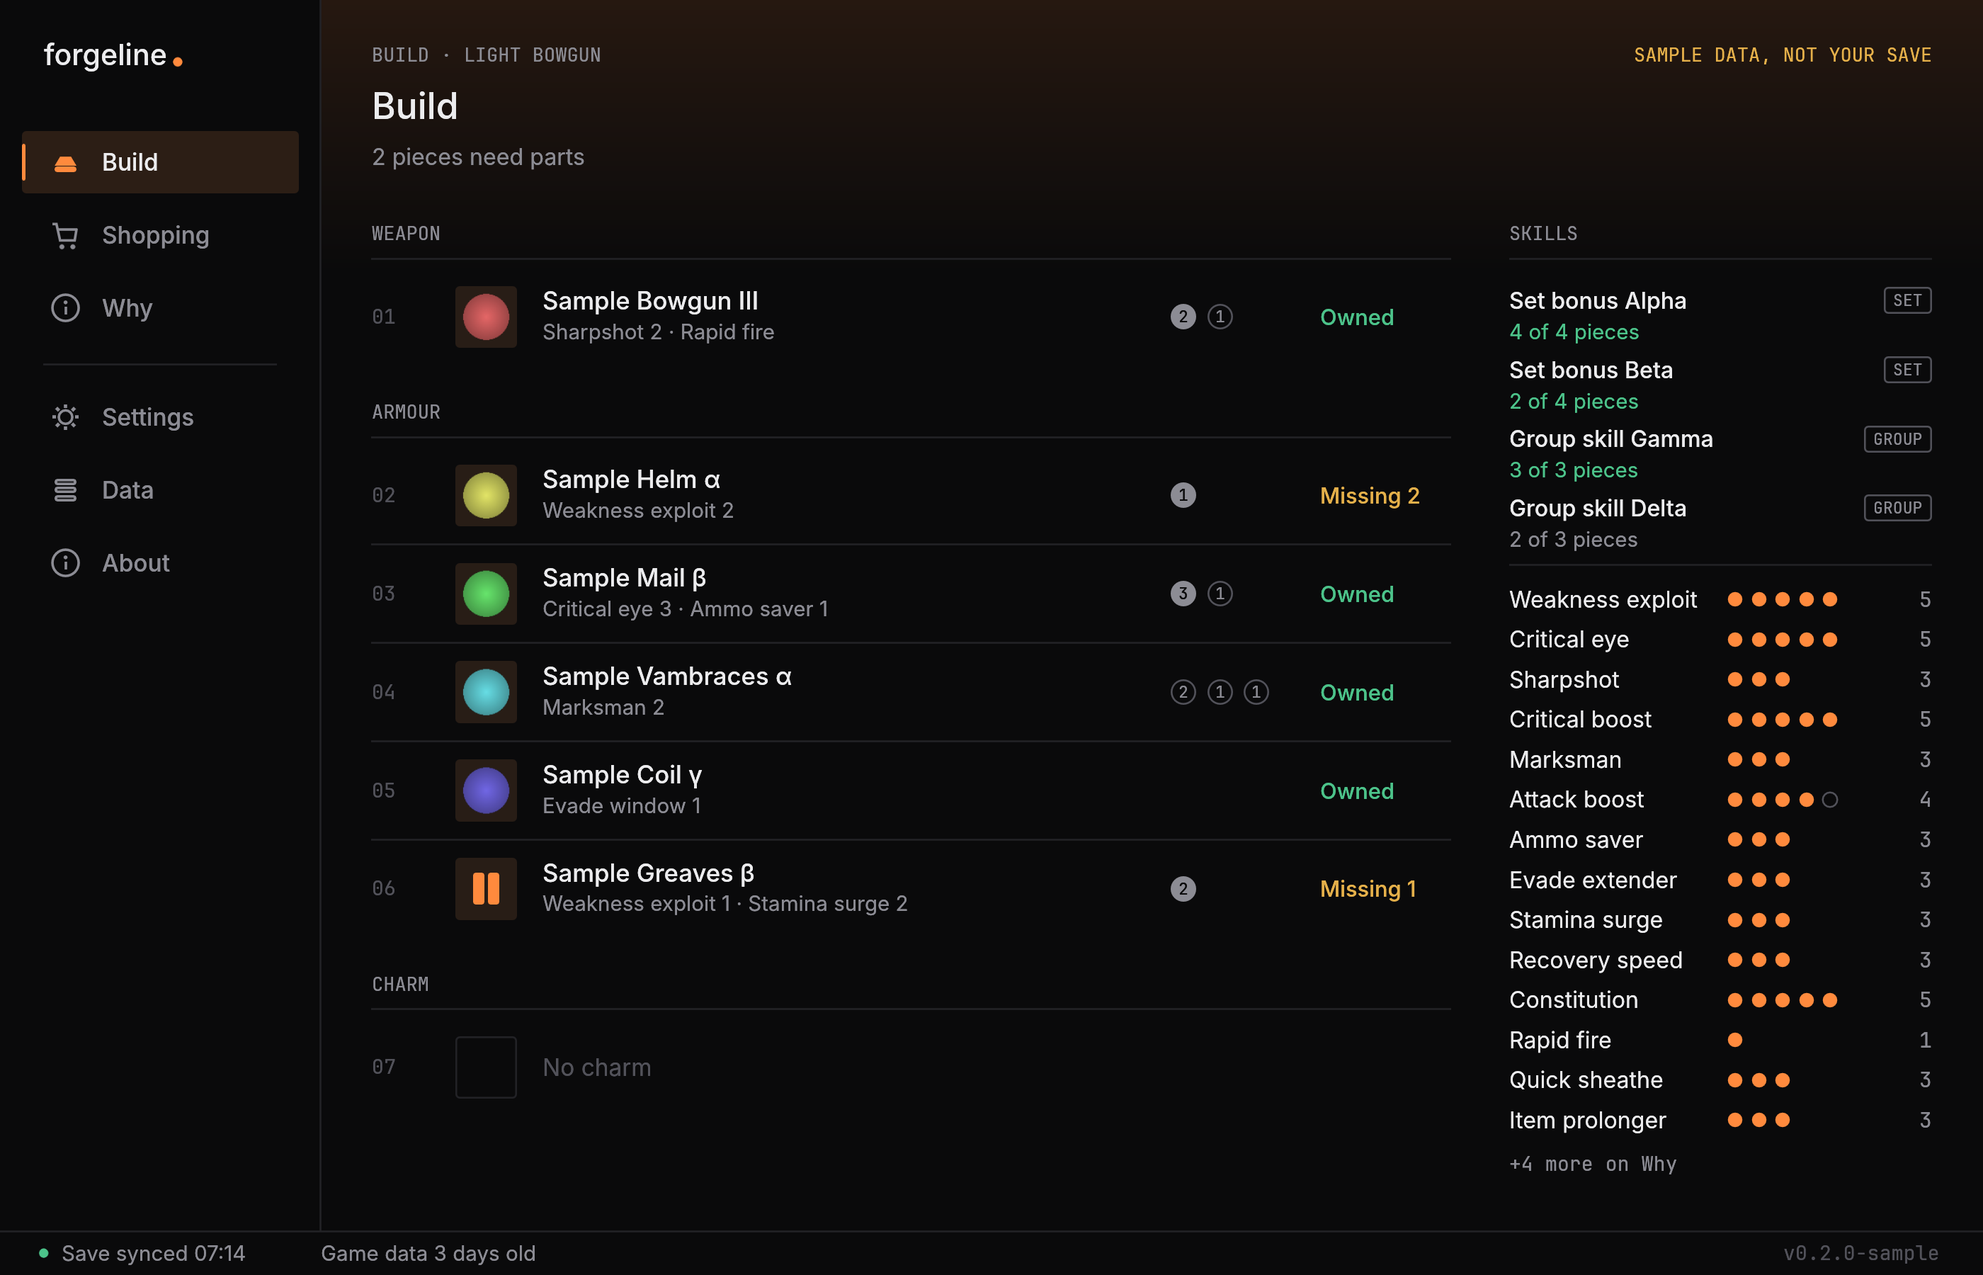
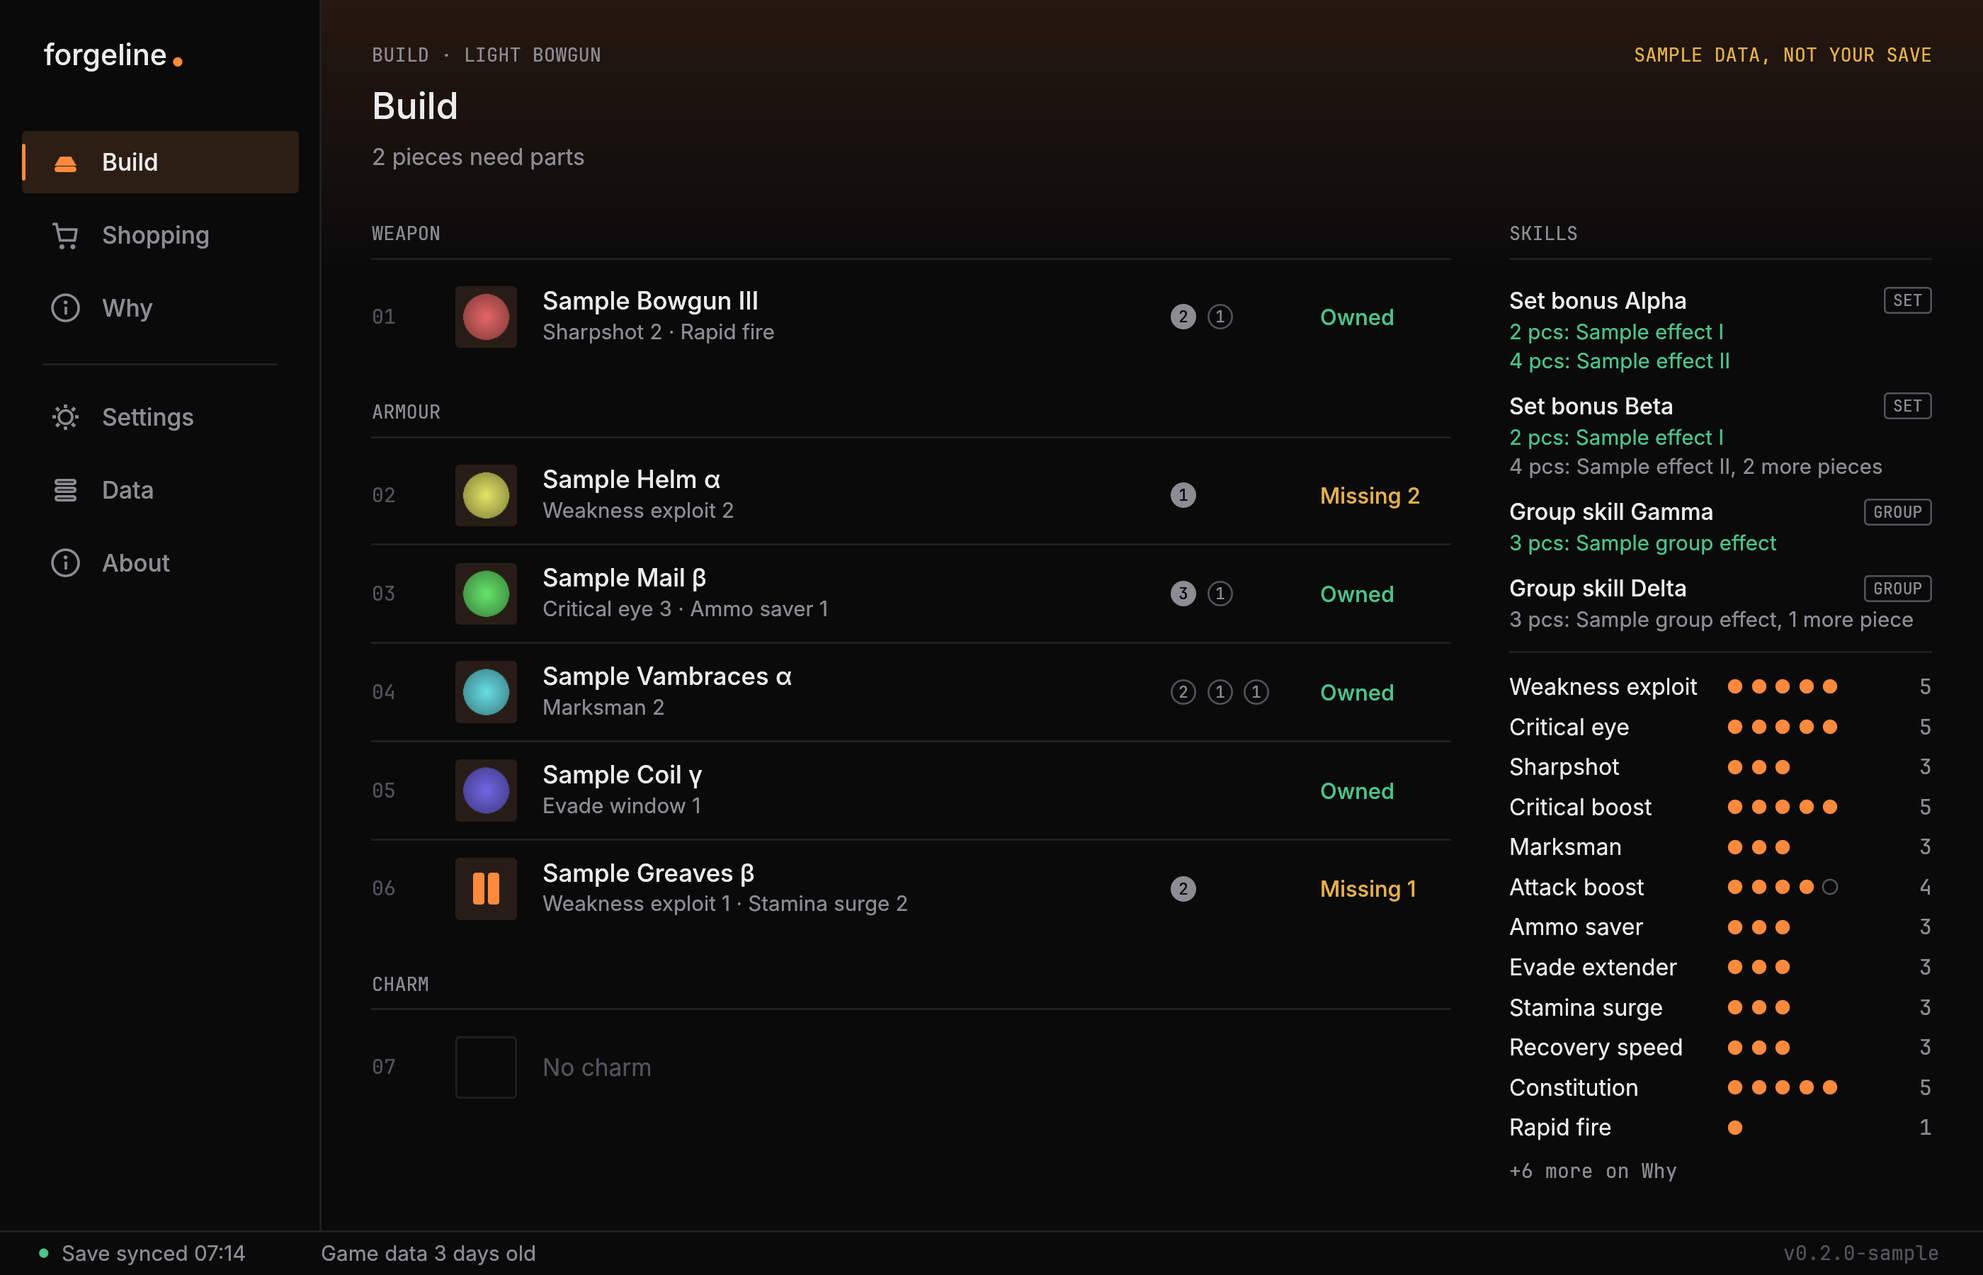
Skills strip: show set and group skill tiers in words
Claude-Session: https://claude.ai/code/session_016DGbpW1wZFqRNDXo5mDZw1

Changed region(s): [[0.7457, 0.2489, 0.9632, 0.9333]]

diff --git a/tools/ui-sample/src/build_card.rs b/tools/ui-sample/src/build_card.rs
@@ -35,6 +35,8 @@ const DOT_PITCH: f32 = 13.0;
 const SKILL_ROW: f32 = 38.0;
 /// Compact rows (used when the list is long): one line, dots in a fixed column at this offset.
 const COMPACT_ROW: f32 = 22.0;
+/// One tier line under a set or group skill's name.
+const TIER_ROW: f32 = 16.0;
 const COMPACT_DOTS_X: f32 = 120.0;
 /// Width of the side strip, and the gap between it and the equipment rows.
 const SKILLS_W: f32 = 232.0;
@@ -44,7 +46,6 @@ const EQUIP_MIN_W: f32 = 480.0;
 /// Each strip column is at least this wide (name, dots and level number).
 const SKILL_COL_MIN_W: f32 = 200.0;
 const ACCENT: Color32 = Color32::from_rgb(255, 138, 61);
-const ACCENT_INK: Color32 = Color32::from_rgb(26, 12, 2);
 const BG: Color32 = Color32::from_rgb(10, 10, 11);
 
 const FG: Color32 = Color32::from_rgb(236, 236, 238);
@@ -84,25 +85,26 @@ pub enum SkillKind {
     Group,
 }
 
-/// How set and group skills show their progress (two variants for the maintainer to compare).
+/// One tier of a set or group skill: the effect that starts at `pieces` worn.
 #[derive(Clone, Copy, PartialEq, Eq, Debug)]
-pub enum SetStyle {
-    /// A numbered circle per threshold (`2` and `4` pieces), filled once reached.
-    Pips,
-    /// Plain words: `3 of 4 pieces`.
-    Text,
+pub struct Tier {
+    pub pieces: u8,
+    /// Short, for the strip.
+    pub effect: &'static str,
+    /// The full effect text, for the tooltip and the Why screen.
+    pub full: &'static str,
 }
 
 /// One skill in the build. For a normal skill `level` is its total level and `max` the most it
-/// can reach. For a set or group skill `level` is the pieces worn, `max` the highest threshold and
-/// `steps` the piece counts where a bonus starts.
+/// can reach. For a set or group skill `level` is the pieces worn, `max` the highest tier and
+/// `tiers` the effects, lowest piece count first.
 #[derive(Clone, Copy, PartialEq, Eq, Debug)]
 pub struct Skill {
     pub name: &'static str,
     pub level: u8,
     pub max: u8,
     pub kind: SkillKind,
-    pub steps: &'static [u8],
+    pub tiers: &'static [Tier],
     /// A must-have the user set. Never cut from the strip.
     pub must: bool,
     /// The optimizer's weight for this skill, when there is one (Phase 4). Without it the strip
@@ -117,20 +119,20 @@ impl Skill {
             level,
             max,
             kind: SkillKind::Normal,
-            steps: &[],
+            tiers: &[],
             must: false,
             weight: None,
         }
     }
 
-    /// A set or group skill: `pieces` worn, bonuses at each of `steps`.
-    pub fn bonus(kind: SkillKind, name: &'static str, pieces: u8, steps: &'static [u8]) -> Self {
+    /// A set or group skill: `pieces` worn, an effect at each of `tiers`.
+    pub fn bonus(kind: SkillKind, name: &'static str, pieces: u8, tiers: &'static [Tier]) -> Self {
         Skill {
             name,
             level: pieces,
-            max: steps.last().copied().unwrap_or(0),
+            max: tiers.last().map_or(0, |t| t.pieces),
             kind,
-            steps,
+            tiers,
             must: false,
             weight: None,
         }
@@ -234,8 +236,8 @@ impl BuildData {
             ],
             charm: None,
             skills: vec![
-                Skill::bonus(SkillKind::Set, "Set bonus Alpha", 3, &[2, 4]),
-                Skill::bonus(SkillKind::Group, "Group skill Gamma", 3, &[3]),
+                Skill::bonus(SkillKind::Set, "Set bonus Alpha", 3, TWO_FOUR),
+                Skill::bonus(SkillKind::Group, "Group skill Gamma", 3, THREE),
                 Skill {
                     must: true,
                     ..Skill::normal("Weakness exploit", 4, 5)
@@ -250,14 +252,34 @@ impl BuildData {
     }
 }
 
+/// Invented tier text. Whether the game files hold set and group skill tier effects is unverified,
+/// so the strip is shown with sample text.
+const TWO_FOUR: &[Tier] = &[
+    Tier {
+        pieces: 2,
+        effect: "Sample effect I",
+        full: "Sample text: the 2-piece effect of this set, in full.",
+    },
+    Tier {
+        pieces: 4,
+        effect: "Sample effect II",
+        full: "Sample text: the 4-piece effect of this set, in full.",
+    },
+];
+const THREE: &[Tier] = &[Tier {
+    pieces: 3,
+    effect: "Sample group effect",
+    full: "Sample text: the 3-piece effect of this group skill, in full.",
+}];
+
 /// A realistic full endgame build's skills (invented names): 22 skills, with set and group
 /// skills first and the rest most important first, each with a sample weight.
 pub fn sample_endgame_skills() -> Vec<Skill> {
     let mut v = vec![
-        Skill::bonus(SkillKind::Set, "Set bonus Alpha", 4, &[2, 4]),
-        Skill::bonus(SkillKind::Set, "Set bonus Beta", 2, &[2, 4]),
-        Skill::bonus(SkillKind::Group, "Group skill Gamma", 3, &[3]),
-        Skill::bonus(SkillKind::Group, "Group skill Delta", 2, &[3]),
+        Skill::bonus(SkillKind::Set, "Set bonus Alpha", 4, TWO_FOUR),
+        Skill::bonus(SkillKind::Set, "Set bonus Beta", 2, TWO_FOUR),
+        Skill::bonus(SkillKind::Group, "Group skill Gamma", 3, THREE),
+        Skill::bonus(SkillKind::Group, "Group skill Delta", 2, THREE),
     ];
     let normal = [
         ("Weakness exploit", 5, 5, true),
@@ -305,8 +327,6 @@ pub struct BuildCard {
     pub cache: IconCache,
     /// Slot circles drawn last frame, for the hover tooltip.
     hits: Vec<(Rect, Hit)>,
-    /// Which of the two set and group skill looks to draw.
-    pub set_style: SetStyle,
 }
 
 impl BuildCard {
@@ -316,7 +336,6 @@ impl BuildCard {
             data: BuildData::sample(),
             cache: IconCache::new(ctx, source),
             hits: Vec::new(),
-            set_style: SetStyle::Text,
         }
     }
 }
@@ -327,12 +346,11 @@ pub fn show(ui: &mut Ui, app: &mut BuildCard) {
     let data = &app.data;
     let cache = &mut app.cache;
     let hits = &mut app.hits;
-    let set_style = app.set_style;
     hits.clear();
     shell::show_with(ui, &mut app.shell, &mut |p, content, shell| {
         shell::show_content(p, content, shell);
         if shell.section == shell::Section::Build {
-            card(p, content, data, cache, hits, &shell.status, set_style);
+            card(p, content, data, cache, hits, &shell.status);
         } else {
             placeholder(p, content);
         }
@@ -367,13 +385,11 @@ fn skill_tip(k: &Skill) -> String {
     match k.kind {
         SkillKind::Normal => format!("{}, level {} of {}", k.name, k.level, k.max),
         SkillKind::Set | SkillKind::Group => {
-            let steps: Vec<String> = k.steps.iter().map(u8::to_string).collect();
-            format!(
-                "{}, {} pieces worn, bonus at {} pieces",
-                k.name,
-                k.level,
-                steps.join(" and ")
-            )
+            let mut tip = format!("{}, {} pieces worn", k.name, k.level);
+            for t in k.tiers {
+                tip += &format!("\n{} pieces: {}", t.pieces, t.full);
+            }
+            tip
         }
     }
 }
@@ -399,7 +415,6 @@ fn card(
     cache: &mut IconCache,
     hits: &mut Vec<(Rect, Hit)>,
     status: &Status,
-    set_style: SetStyle,
 ) {
     let left = content.min.x + MARGIN;
     let right = content.max.x - MARGIN;
@@ -445,7 +460,6 @@ fn card(
             top,
             content.max.y - 16.0,
             &data.skills,
-            set_style,
         );
     }
     let right = eq_right;
@@ -502,13 +516,12 @@ fn card(
             y + 14.0,
             content.max.y - 16.0,
             &data.skills,
-            set_style,
         );
     }
 }
 
 /// The skills strip: a section label with its hairline, then the set and group skills pinned at
-/// the top (two-line blocks with a small kind tag), then the normal skills. Each normal skill is a
+/// the top (a name with a small kind tag, then one line per tier), then the normal skills. Each normal skill is a
 /// name, a level number at the right and one round dot per possible level. Columns follow the
 /// width; dots and numbers sit on the same x in every block and are snapped to whole pixels.
 ///
@@ -526,7 +539,6 @@ fn skills(
     y: f32,
     bottom: f32,
     list: &[Skill],
-    set_style: SetStyle,
 ) {
     let mut y = section(p, left, right, y, "SKILLS");
     if list.is_empty() {
@@ -546,15 +558,18 @@ fn skills(
     let col_x = |i: usize| left + (i % cols) as f32 * (col_w + 24.0);
     y += 6.0;
 
-    // Set and group skills first, in two-line blocks.
+    // Set and group skills first: the name and kind tag, then one line per tier. The active tiers
+    // are green, the next one is muted with how many pieces it still needs, later ones fainter.
+    // Blocks are as tall as their tiers; columns follow the width like the normal skills.
     let pinned: Vec<&Skill> = list.iter().filter(|k| k.pinned()).collect();
+    let mut col_y = vec![y; cols];
     for (i, k) in pinned.iter().enumerate() {
         let x = col_x(i);
-        let ry = y + (i / cols) as f32 * SKILL_ROW;
+        let ry = col_y[i % cols];
         p.text(
             Pos2::new(x, ry + 9.0),
             Align2::LEFT_CENTER,
-            fit(p, k.name, col_w - 56.0, "inter-medium"),
+            fit(p, k.name, col_w - 56.0, "inter-medium", 12.5),
             font("inter-medium", 12.5),
             FG,
         );
@@ -578,47 +593,39 @@ fn skills(
         );
         p.galley(tag_rect.center() - g.size() / 2.0, g, DIM);
 
-        match set_style {
-            SetStyle::Pips => {
-                // One numbered circle per threshold, the slot-circle size and look, filled once
-                // reached. Pieces worn at the right.
-                for (j, step) in k.steps.iter().enumerate() {
-                    let c = Pos2::new(snap(x + SLOT_R + j as f32 * SLOT_PITCH), snap(ry + 26.0));
-                    let ink = if k.level >= *step {
-                        p.circle_filled(c, SLOT_R, ACCENT);
-                        ACCENT_INK
-                    } else {
-                        p.circle_stroke(c, SLOT_R - 1.0, Stroke::new(1.0, FAINT));
-                        DIM
-                    };
-                    p.text(c, Align2::CENTER_CENTER, step.to_string(), mono(9.0), ink);
-                }
-                p.text(
-                    Pos2::new(x + col_w, ry + 26.0),
-                    Align2::RIGHT_CENTER,
-                    format!("{} pieces", k.level),
-                    mono(11.0),
-                    DIM,
-                );
-            }
-            SetStyle::Text => {
-                let done = k.steps.iter().any(|s| k.level >= *s);
-                p.text(
-                    Pos2::new(x, ry + 26.0),
-                    Align2::LEFT_CENTER,
-                    format!("{} of {} pieces", k.level, k.max),
-                    font("inter", 11.5),
-                    if done { OK } else { DIM },
-                );
-            }
+        let mut next_seen = false;
+        for (j, t) in k.tiers.iter().enumerate() {
+            let (text, color) = if k.level >= t.pieces {
+                (format!("{} pcs: {}", t.pieces, t.effect), OK)
+            } else if !next_seen {
+                next_seen = true;
+                let n = t.pieces - k.level;
+                let more = if n == 1 {
+                    "1 more piece".to_string()
+                } else {
+                    format!("{n} more pieces")
+                };
+                (format!("{} pcs: {}, {more}", t.pieces, t.effect), DIM)
+            } else {
+                (format!("{} pcs: {}", t.pieces, t.effect), FAINT)
+            };
+            p.text(
+                Pos2::new(x, ry + 26.0 + j as f32 * TIER_ROW),
+                Align2::LEFT_CENTER,
+                fit(p, &text, col_w, "inter", 11.5),
+                font("inter", 11.5),
+                color,
+            );
         }
+        let h = 20.0 + k.tiers.len().max(1) as f32 * TIER_ROW + 6.0;
         hits.push((
-            Rect::from_min_size(Pos2::new(x, ry), Vec2::new(col_w, SKILL_ROW - 4.0)),
+            Rect::from_min_size(Pos2::new(x, ry), Vec2::new(col_w, h - 4.0)),
             Hit::Skill(**k),
         ));
+        col_y[i % cols] += h;
     }
     if !pinned.is_empty() {
-        y += pinned.len().div_ceil(cols) as f32 * SKILL_ROW;
+        y = col_y.iter().cloned().fold(y, f32::max);
     }
 
     let normal: Vec<&Skill> = list.iter().filter(|k| !k.pinned()).collect();
@@ -669,7 +676,7 @@ fn skills(
         p.text(
             Pos2::new(x, name_y),
             Align2::LEFT_CENTER,
-            fit(p, k.name, name_w, "inter"),
+            fit(p, k.name, name_w, "inter", 12.5),
             font("inter", 12.5),
             FG,
         );
@@ -714,10 +721,10 @@ fn hide_least_important(normal: &[&Skill], n_cut: usize) -> Vec<bool> {
     hidden
 }
 
-/// `text` shortened with an ellipsis until it fits `width` (12.5 pt, in the named face).
-fn fit(p: &Painter, text: &str, width: f32, face: &str) -> String {
+/// `text` shortened with an ellipsis until it fits `width` (in the named face and size).
+fn fit(p: &Painter, text: &str, width: f32, face: &str, size: f32) -> String {
     let fits = |t: &str| {
-        p.layout_no_wrap(t.to_string(), font(face, 12.5), FG)
+        p.layout_no_wrap(t.to_string(), font(face, size), FG)
             .size()
             .x
             <= width

diff --git a/tools/ui-sample/src/bin/build_shots.rs b/tools/ui-sample/src/bin/build_shots.rs
@@ -41,17 +41,14 @@ fn main() -> std::io::Result<()> {
     // Element 5: the same strip with no skills, for the empty state.
     let skills = std::mem::take(&mut app.data.skills);
     save("skills-empty.png", h.frame(&mut app, size, ppp))?;
-    // Endgame: a long list, at the base size and a larger one, with both set and group looks.
-    use ui_sample::build_card::{sample_endgame_skills, SetStyle, Skill};
+    // Endgame: a long list, at the base size and a larger one.
+    use ui_sample::build_card::{sample_endgame_skills, Skill};
     app.data.skills = sample_endgame_skills();
     save("skills-endgame.png", h.frame(&mut app, size, ppp))?;
     save(
         "skills-endgame-large.png",
         h.frame(&mut app, Vec2::new(1400.0, 900.0), ppp),
     )?;
-    app.set_style = SetStyle::Pips;
-    save("skills-endgame-pips.png", h.frame(&mut app, size, ppp))?;
-    app.set_style = SetStyle::Text;
     // More than fits: four low-weight extras, so the cut and the "+N more on Why" line show.
     for (name, level, max) in [
         ("Wide range", 1, 5),
@@ -68,11 +65,6 @@ fn main() -> std::io::Result<()> {
     app.data.skills = sample_endgame_skills();
     app.data.skills.truncate(4 + 10);
     save("skills-14.png", h.frame(&mut app, size, ppp))?;
-    // The short default list in both set and group looks.
-    app.data.skills = skills.clone();
-    app.set_style = SetStyle::Pips;
-    save("skills-8-pips.png", h.frame(&mut app, size, ppp))?;
-    app.set_style = SetStyle::Text;
     app.data.skills = skills;
     save(
         "build-large.png",

diff --git a/docs/ux/style-guide.md b/docs/ux/style-guide.md
@@ -68,7 +68,7 @@ Minimum readable text is 12 px at the target size (design plan principle 8); the
 
 **Skill dots.** Round, one per level up to the skill's maximum: filled accent for earned levels, outlined `faint` for the rest. Skill name sits above the dots, the level number on the right in mono `dim`. Filled and outlined dots share one outer diameter (8 px) on a 13 px pitch, snapped to whole pixels, so dots line up across skills. In the Build screen the strip is a 232 px side column (one skill per row, 38 px pitch) level with the weapon label; if the window is too narrow for that it drops under the card with columns that follow the width. Hover says `Name, level N of M`. Long lists change density instead of scrolling: normal skills are two-line blocks while they fit, then one-line rows (22 px pitch, dots in a fixed column). If they still do not fit, the least important are left out and a mono `+N more on Why` line (clickable, opens Why) says where the rest are. Must-haves and set and group skills are never left out; the rest go by the optimizer's weight when there is one, otherwise lowest level first.
 
-**Set and group skills.** Pinned at the top of the strip, above a hairline, in two-line blocks: name in Inter Medium, a small outlined mono tag (`SET` or `GROUP`, `dim` on a `faint` outline) at the right, and progress underneath as plain words (`3 of 4 pieces`, `ok` once a bonus is active, `dim` before). A numbered-circle variant (one circle per piece threshold, slot-circle size) exists in `tools/ui-sample` but reads like decoration slots, so words are the default.
+**Set and group skills.** Pinned at the top of the strip, above a hairline. Each is a name in Inter Medium, a small outlined mono tag (`SET` or `GROUP`, `dim` on a `faint` outline) at the right, and one 11.5 Inter line per tier: `2 pcs: effect`. Tiers already reached are `ok` green; the next tier is `dim` with how many pieces it still needs (`4 pcs: effect, 2 more pieces`); later tiers are `faint`. The full effect text of every tier is in the hover tooltip and on Why. Tier effect text in `tools/ui-sample` is invented sample text: whether the game files hold set and group skill tier effects is unverified.
 
 **Headline block.** Mono caps label left, optional `MODELLED` tag right (mono caps, `warn`). Below it the headline word, a 6 px flat bar (`line` track, accent fill, rounded ends) and a 1.5 px `fg` tick for the current gear. Delta text in mono `ok`, right-aligned (`+12% vs your gear`).
 

diff --git a/tools/ui-sample/README.md b/tools/ui-sample/README.md
@@ -80,4 +80,4 @@ The window repaints only on input. The rail, the Solo and Multiplayer switch, th
 
 Screenshots are in [docs/ux/samples/skills/](../../docs/ux/samples/skills/). `build_shots` writes them too (`skills-empty.png` along with the build set).
 
-Long lists (endgame builds): normal skills switch to one-line rows with the dots in a fixed column, and what still does not fit is left out, least important first (must-haves, set and group skills never; optimizer weight when there is one, else lowest level), with a clickable `+N more on Why` line. Set and group skills are pinned at the top with a `SET` or `GROUP` tag and progress in words (`SetStyle::Text`, default) or numbered threshold circles (`SetStyle::Pips`). `sample_endgame_skills()` is a 22-skill sample.
+Long lists (endgame builds): normal skills switch to one-line rows with the dots in a fixed column, and what still does not fit is left out, least important first (must-haves, set and group skills never; optimizer weight when there is one, else lowest level), with a clickable `+N more on Why` line. Set and group skills are pinned at the top with a `SET` or `GROUP` tag and one line per tier (reached tiers green, the next muted with the pieces it still needs, full text in the tooltip); the tier text is invented sample text. `sample_endgame_skills()` is a 22-skill sample.
